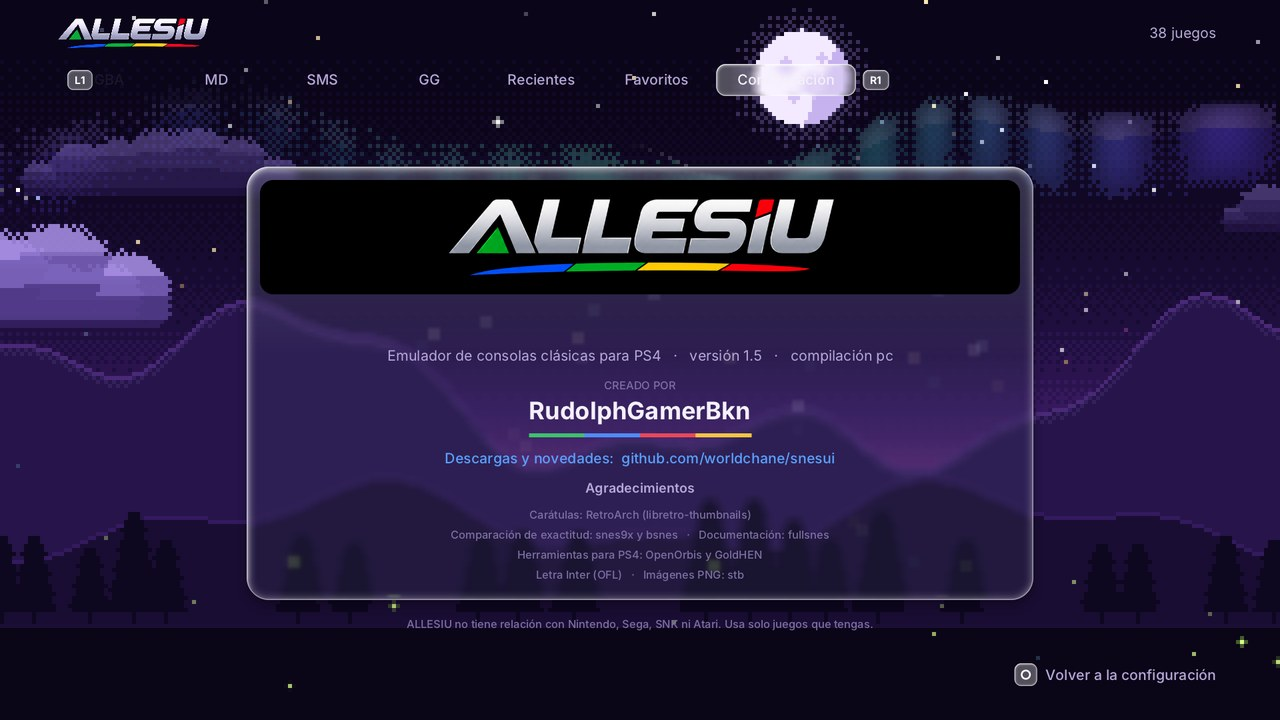
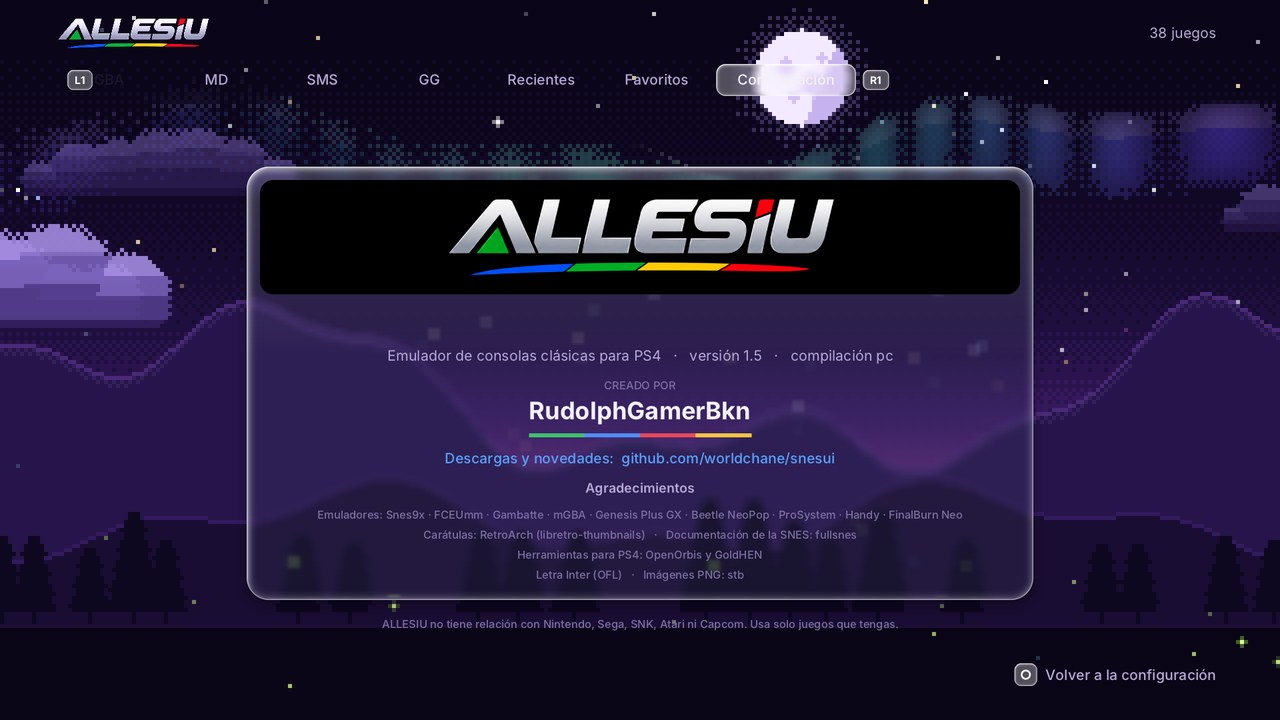
SNES con Snes9x: README, créditos y velocidad del Super FX
- README: la SNES usa Snes9x desde la 1.5 (el emulador propio queda como alternativa);
  Snes9x en los créditos.
- Acerca de: la lista de emuladores.
- La velocidad del Super FX de Configuración se pasa a Snes9x (snes9x_overclock_superfx);
  antes solo actuaba sobre el emulador propio.
- Carátulas: "Preparando las carátulas…" mientras se baja la lista del servidor, en vez
  de un "0 de N" que parecía trabado.

Changed region(s): [[0.25, 0.7028, 0.75, 0.7639], [0.3125, 0.8556, 0.6875, 0.8861]]

diff --git a/src/app/interfaz.cpp b/src/app/interfaz.cpp
@@ -93,7 +93,9 @@ static void DibujarDescarga(float dt)
     char t[200];
     if (p.activa)
     {
-        snprintf(t, sizeof t, "Bajando carátulas   %d de %d", p.hechas, p.total);
+        // Mientras se baja la lista de nombres del servidor (puede tardar unos segundos), sin un "0 de N" que parezca trabado.
+        if (p.leyendoLista && !p.hechas) snprintf(t, sizeof t, "Preparando las carátulas…");
+        else snprintf(t, sizeof t, "Bajando carátulas   %d de %d", p.hechas, p.total);
         Texto(F_CUERPO_M, t, x + 28, y + 6, C_TEXTO, a);
         char corto[120];
         Texto(F_PEQUENA, Acortar(F_PEQUENA, p.detalle, w - 56, corto, sizeof corto), x + 28, y + 37, C_TEXTO_3, a);
@@ -1618,13 +1620,13 @@ static void AcercaDe()
     Texto(F_CUERPO_M, web, cx, y + 424, C_ACENTO, 1, 1);
     Texto(F_ETIQUETA, "Agradecimientos", cx, y + 470, C_TEXTO_2, 1, 1);
     static const char* const GRACIAS[] = {
-        "Carátulas: RetroArch (libretro-thumbnails)",
-        "Comparación de exactitud: snes9x y bsnes   ·   Documentación: fullsnes",
+        "Emuladores: Snes9x · FCEUmm · Gambatte · mGBA · Genesis Plus GX · Beetle NeoPop · ProSystem · Handy · FinalBurn Neo",
+        "Carátulas: RetroArch (libretro-thumbnails)   ·   Documentación de la SNES: fullsnes",
         "Herramientas para PS4: OpenOrbis y GoldHEN",
         "Letra Inter (OFL)   ·   Imágenes PNG: stb",
     };
     for (int i = 0; i < 4; i++) Texto(F_PEQUENA, GRACIAS[i], cx, y + 512 + i * 30, C_TEXTO_3, 1, 1);
-    Texto(F_PEQUENA, "ALLESIU no tiene relación con Nintendo, Sega, SNK ni Atari. Usa solo juegos que tengas.", cx, y + h + 26, C_TEXTO_3, 1, 1);
+    Texto(F_PEQUENA, "ALLESIU no tiene relación con Nintendo, Sega, SNK, Atari ni Capcom. Usa solo juegos que tengas.", cx, y + h + 26, C_TEXTO_3, 1, 1);
     int b[1] = {BM_CIRCULO};
     const char* tx[1] = {"Volver a la configuración"};
     Pistas(b, tx, 1);

diff --git a/src/app/consola.cpp b/src/app/consola.cpp
@@ -1,6 +1,7 @@
 // Ver consola.h. Cada núcleo libretro se compila solo si construir.sh lo incluye (define CON_NUCLEO_<nombre>); las
 // consolas sin núcleo siguen en la tabla (para las pestañas y carpetas) pero no se pueden abrir.
 #include "consola.h"
+#include "ajustes.h"
 
 #include <ctype.h>
 #include <stdio.h>
@@ -70,8 +71,14 @@ static void Iniciar_lynx() {}
 NUCLEO(lynx, "Handy")
 #endif
 #ifdef CON_NUCLEO_S9X
-// Snes9x: el emulador de SNES de la app (el propio, en src/nucleo, queda como alternativa).
-static void Iniciar_s9x() {}
+// Snes9x: el emulador de SNES de la app (el propio, en src/nucleo, queda como alternativa). La aceleración del Super FX
+// de Configuración (×1 a ×4) va a su opción de frecuencia del chip.
+static void Iniciar_s9x()
+{
+    static const char* const VELOCIDAD[] = {"100%", "200%", "300%", "400%"};
+    int v = General().superfx;
+    LibretroOpcion("snes9x_overclock_superfx", VELOCIDAD[v >= 1 && v <= 4 ? v - 1 : 0]);
+}
 NUCLEO(s9x, "Snes9x")
 #endif
 #ifdef CON_NUCLEO_N64

diff --git a/src/app/caratula.cpp b/src/app/caratula.cpp
@@ -521,6 +521,7 @@ static void* HiloDescarga(void*)
         CrearCarpetas(carpeta);
         {
             snprintf(progreso.detalle, sizeof progreso.detalle, "Leyendo la lista de carátulas de %s...", fds ? "Disk System" : con.nombre);
+            progreso.leyendoLista = true;
             char ruta[300] = "/";
             AgregarCodificado(ruta, sizeof ruta, sistema);
             snprintf(ruta + strlen(ruta), sizeof ruta - strlen(ruta), "/Named_Boxarts/");
@@ -534,6 +535,7 @@ static void* HiloDescarga(void*)
                 indiceCortado = cuerpo + largo >= buf + MAXIMO - 1;   // llenó el búfer: la lista llegó cortada
                 LeerIndice(cuerpo, largo);
             }
+            progreso.leyendoLista = false;
             Registrar("Carátulas de %s: lista del servidor con %d nombres%s (respuesta %d)", fds ? "Disk System" : con.nombre, nIndice,
                       indiceCortado ? ", cortada" : "", codigo);
         }

diff --git a/src/app/caratula.h b/src/app/caratula.h
@@ -28,6 +28,7 @@ struct ProgresoDescarga
 {
     bool activa, terminada, fallo;   // fallo: no hubo red
     bool automatica;                 // la pidió la app sola (ver EmpezarDescarga)
+    bool leyendoLista;               // bajando la lista de nombres del servidor de una consola (antes de las carátulas)
     int hechas, total, bajadas, sinCaratula;
     char detalle[160];
 };

diff --git a/README.md b/README.md
@@ -19,7 +19,7 @@ imagen y música propia.
 
 | Consola | Extensiones | Emulador |
 |---|---|---|
-| SNES | `.sfc` `.smc` `.fig` `.swc` | propio, hecho desde cero |
+| SNES | `.sfc` `.smc` `.fig` `.swc` | |
 | NES / Famicom Disk System | `.nes` `.fds` `.unf` `.unif` | |
 | Game Boy / Game Boy Color | `.gb` `.gbc` | |
 | Game Boy Advance | `.gba` | |
@@ -100,16 +100,12 @@ Más en la [guía](docs/GUIA.md).
 
 ### SNES
 
-El emulador de SNES es propio y se compara cuadro por cuadro con bsnes:
+Desde la 1.5 la SNES funciona con **Snes9x**, que tiene la mayor compatibilidad, incluidos todos los chips especiales
+(Super FX, SA-1, DSP, Cx4, S-DD1, SPC7110...). El Super FX se puede acelerar ×2 a ×4 en *Configuración*.
 
-- en una colección de 762 juegos, el 90 % se ve idéntico a bsnes durante los primeros 30 segundos y ninguno se cuelga;
-- están los 8 modos de video (modo 7, alta resolución, transparencias, ventanas, mosaico, HDMA, entrelazado) y el
-  sonido completo con eco;
-- chips especiales: **Super FX** (con aceleración ×2 a ×4), **SA-1**, **DSP-1**, **DSP-2**, **ST010**, **Cx4**,
-  **S-DD1**, **SPC7110** (con su reloj) y **OBC1**. Los chips que no traen su programa en la rom se emulan con tablas
-  calculadas por fórmula: no hace falta ningún archivo de firmware.
-
-Todavía no funcionan los juegos con DSP-3, DSP-4, ST011 y ST018.
+El emulador de SNES propio de ALLESIU, hecho desde cero (en `src/nucleo`, comparado cuadro por cuadro con bsnes: el
+90 % de 762 juegos idéntico durante los primeros 30 segundos), sigue en el código como alternativa, pero la app ya no
+lo usa.
 
 
 ## Requisitos
@@ -206,8 +202,9 @@ globales y sin tablas constantes grandes de punteros. Están explicados en `cons
 
 ## Créditos
 
-Emuladores de otras consolas que usa ALLESIU:
+Emuladores que usa ALLESIU:
 
+- [Snes9x](https://github.com/snes9xgit/snes9x) (SNES), del equipo de Snes9x.
 - [FCEUmm](https://github.com/libretro/libretro-fceumm) (NES), del equipo de FCEU/FCE Ultra y libretro.
 - [Gambatte](https://github.com/libretro/gambatte-libretro) (Game Boy y Game Boy Color), de Sindre Aamås y libretro.
 - [mGBA](https://github.com/mgba-emu/mgba) (Game Boy Advance), de Vicki Pfau.
